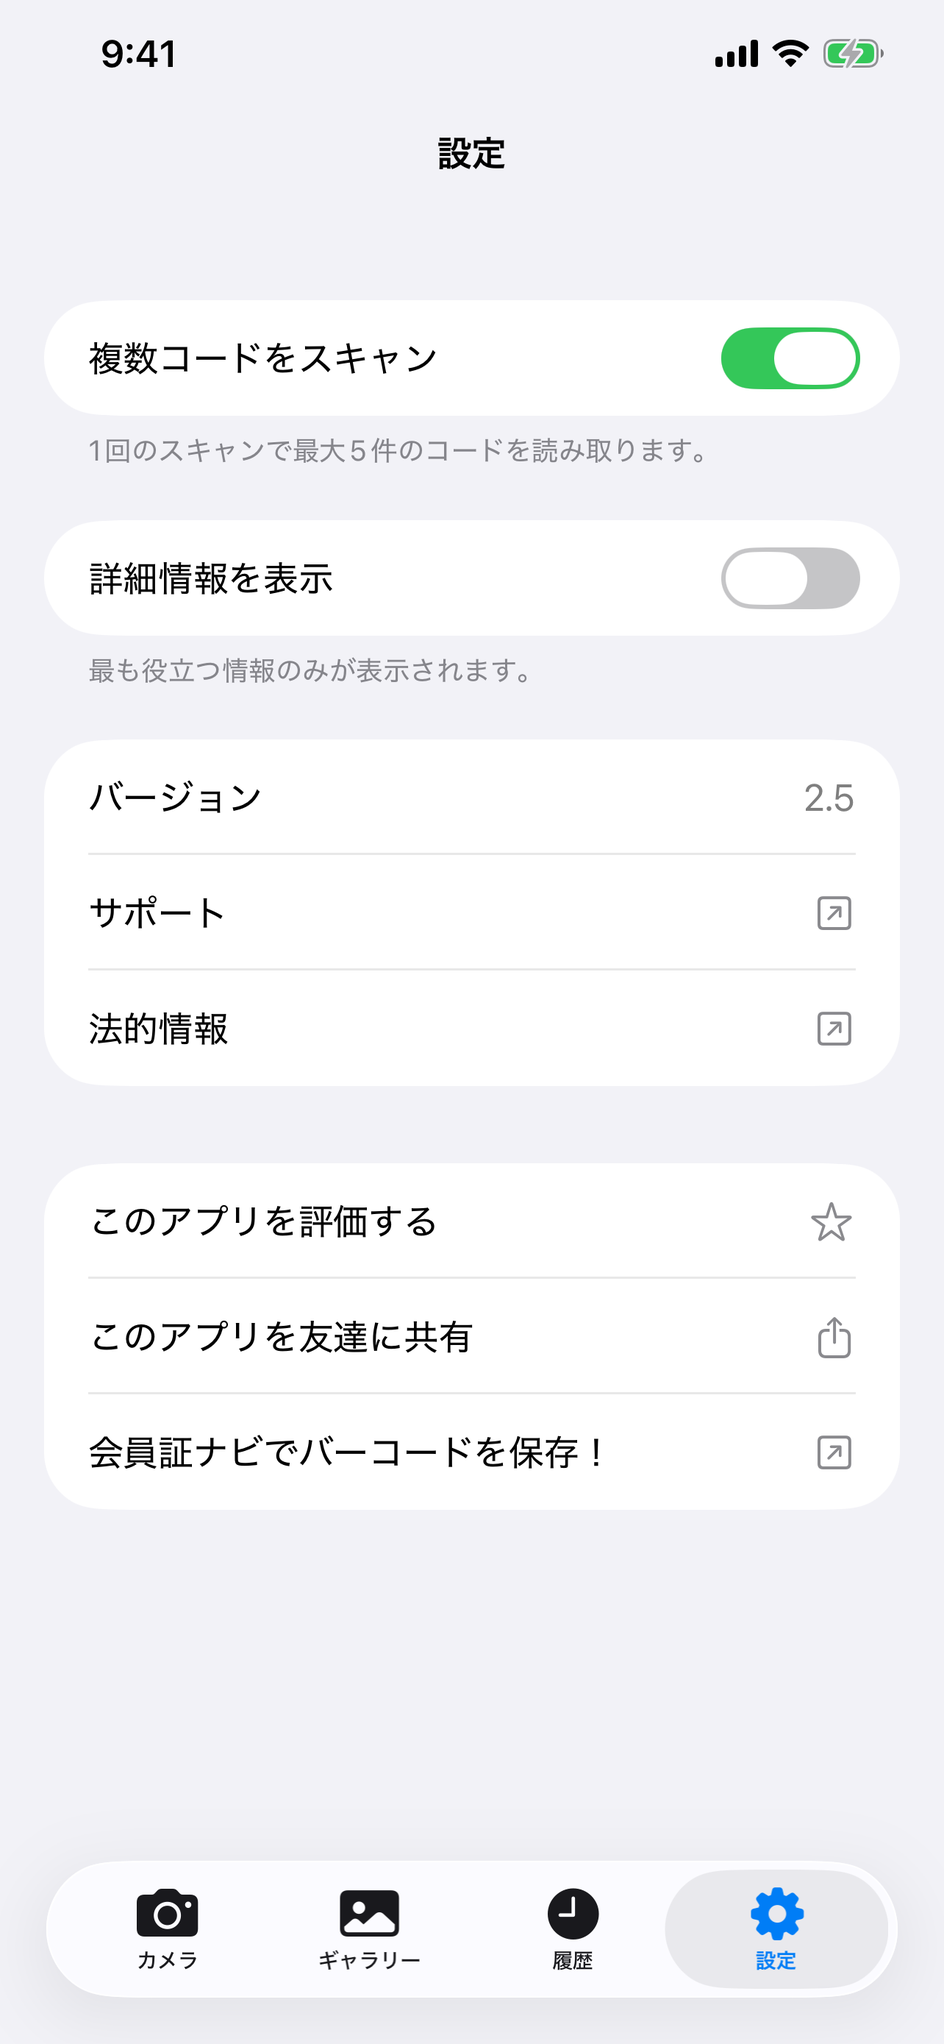
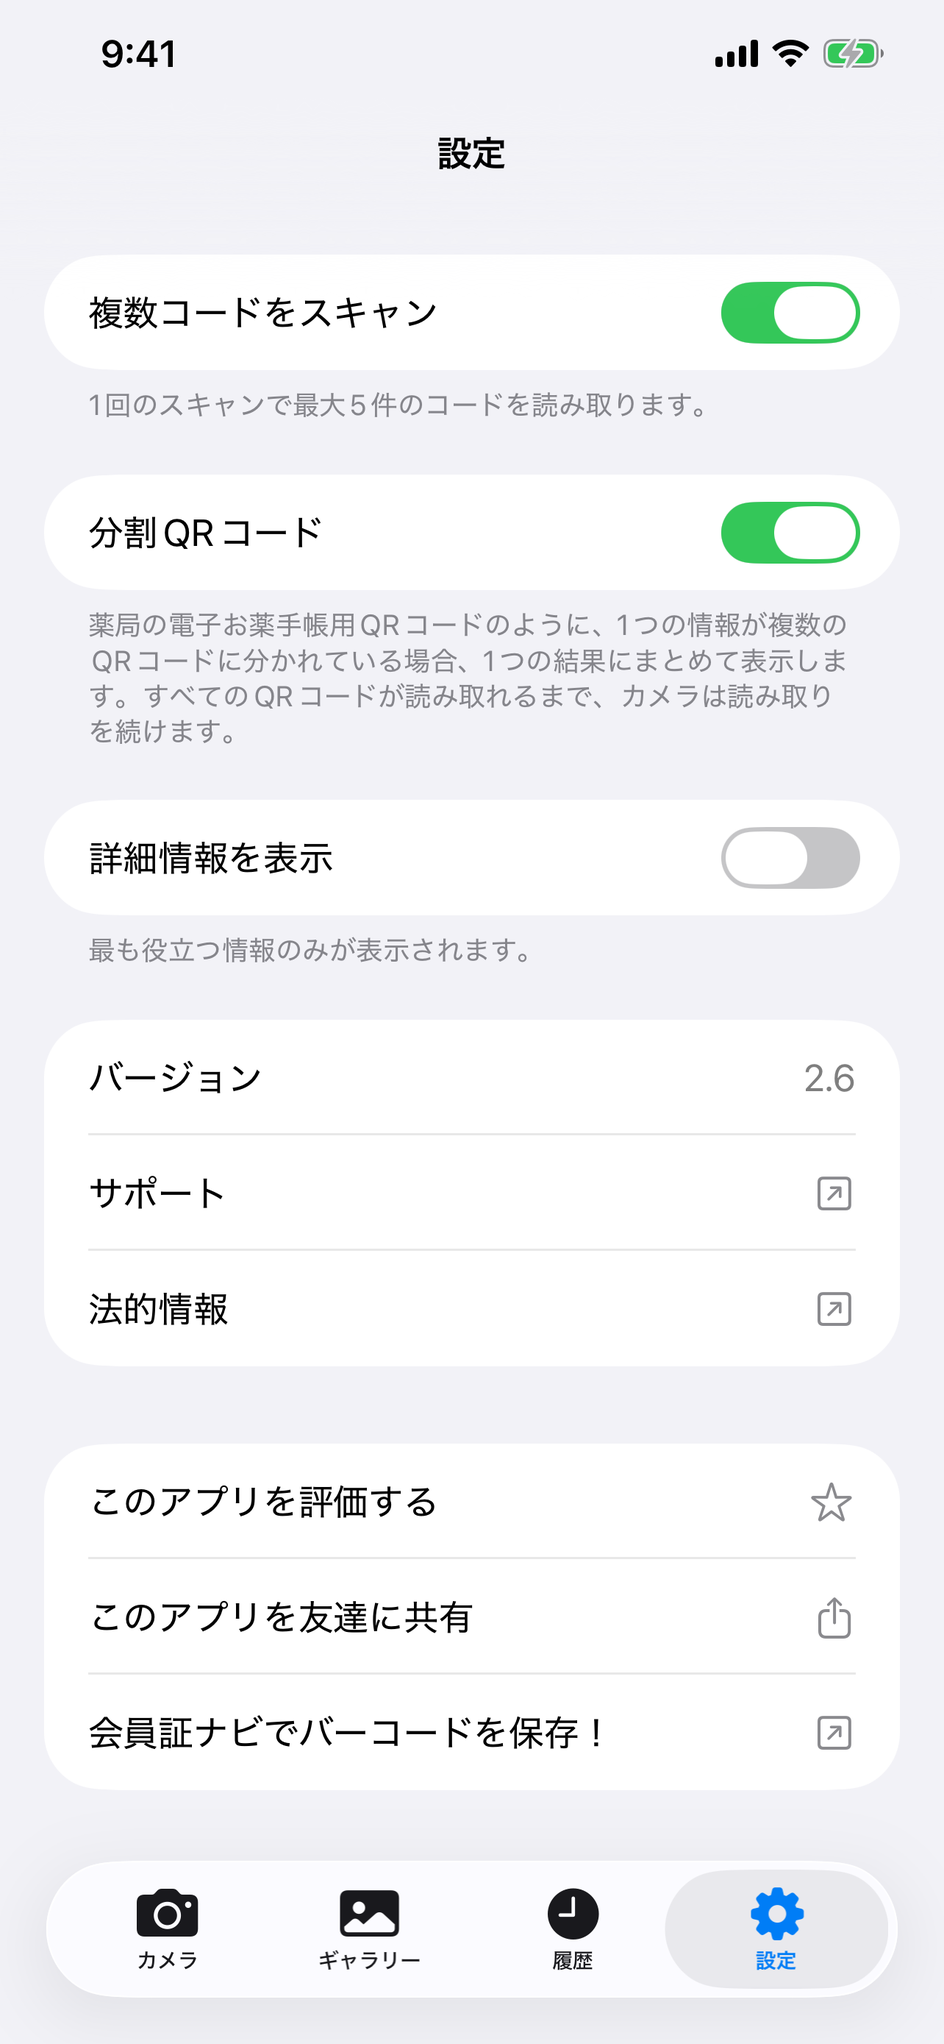
Code Reader: document Multi-Part QR Codes and refresh the Settings screenshots

diff --git a/docs/codereader/ar/index.html b/docs/codereader/ar/index.html
@@ -143,6 +143,8 @@
 
 <p><b>مسح عدة رموز</b><br>افتراضيًا، يتوقف قارئ الرموز بمجرد أن يجد <b>رمزًا واحدًا</b>. فعّل <b>مسح عدة رموز</b> لاكتشاف ما يصل إلى <b>5 رموز في وقت واحد</b>، وهو مفيد لبطاقات العمل أو صفحات المنتجات أو أي صورة تحتوي على عدة رموز جنبًا إلى جنب. تواصل الكاميرا المسح للحظة قصيرة بعد أول اكتشاف لجمع كل الرموز المرئية قبل عرض النتائج.</p>
 
+<p><b>رموز QR متعددة الأجزاء</b><br>تقسّم بعض المطبوعات رسالة واحدة على عدة رموز QR مطبوعة جنبًا إلى جنب، وإيصالات الصيدليات مثال شائع على ذلك. فعّل <b>رموز QR متعددة الأجزاء</b> (متاح بعد تفعيل <b>مسح عدة رموز</b>) ليجمع قارئ الرموز الأجزاء بالترتيب الصحيح في نتيجة واحدة. أثناء المسح، تخبرك الكاميرا بالأجزاء التي لا تزال مفقودة وتنتظرها. إذا فاتك جزء، اضغط <b>إعادة المسح</b> وامسح ذلك الجزء فقط، إذ يتذكر التطبيق الأجزاء التي عُثر عليها لمدة 30 دقيقة. هذا الإعداد متوقف افتراضيًا، فيظهر كل جزء كرمز مستقل.</p>
+
 <p><b>إظهار التفاصيل المتقدمة</b><br>فعّل <b>إظهار التفاصيل المتقدمة</b> لعرض البيانات الوصفية التقنية بجانب كل نتيجة مسح، مثل إصدار QR، ومستوى تصحيح الأخطاء، ونمط القناع، أو بنية الباركود (أحرف البدء/الإيقاف، رقم التحقق). تظهر هذه المعلومات في صفحة نتيجة المسح وفي صفوف تبويب السجل.</p>
 <div class="tip">💡 هذه طريقة رائعة لمعرفة المزيد حول كيفية عمل رموز QR والباركود فعليًا. إن كنت فضوليًا بشأن التقنية الكامنة وراء ما تمسحه، جرّبها!</div>
 

diff --git a/docs/codereader/fr/index.html b/docs/codereader/fr/index.html
@@ -149,6 +149,8 @@ L'app fonctionne hors ligne, ne stocke rien dans le cloud et n'affiche jamais de
 
 <p><b>Scanner plusieurs codes</b><br>Par défaut, Lecteur de Codes s'arrête dès qu'il trouve <b>un code</b>. Activez <b>Scanner plusieurs codes</b> pour détecter jusqu'à <b>5 codes à la fois</b>, utile pour les cartes de visite, les fiches produits ou toute image contenant plusieurs codes côte à côte. L'appareil photo continue de scanner brièvement après la première détection afin de rassembler tous les codes visibles avant d'afficher les résultats.</p>
 
+<p><b>QR codes en plusieurs parties</b><br>Certains imprimés répartissent un même message sur plusieurs QR codes placés côte à côte ; les tickets de pharmacie en sont un exemple courant. Activez <b>QR codes en plusieurs parties</b> (disponible une fois <b>Scanner plusieurs codes</b> activé) et Lecteur de Codes réunit les parties, dans le bon ordre, en un seul résultat. Pendant le scan, l’appareil photo indique les parties encore manquantes et les attend. Si une partie vous échappe, touchez <b>Scanner à nouveau</b> et scannez uniquement cette partie : les parties déjà trouvées sont mémorisées pendant 30 minutes. Cette option est désactivée par défaut ; chaque partie s’affiche alors comme un code distinct.</p>
+
 <p><b>Afficher les détails avancés</b><br>Activez <b>Afficher les détails avancés</b> pour révéler les métadonnées techniques à côté de chaque résultat de scan : version QR, niveau de correction d'erreur, motif de masque ou structure du code-barres (caractères de début/fin, chiffre de contrôle). Ces informations apparaissent sur la page de résultat et dans les lignes de l'onglet Historique.</p>
 <div class="tip">💡 C'est une excellente façon d'en apprendre davantage sur le fonctionnement réel des QR codes et des codes-barres. Si la technologie derrière ce que vous scannez vous intrigue, essayez-la !</div>
 

diff --git a/docs/codereader/es/index.html b/docs/codereader/es/index.html
@@ -116,6 +116,8 @@ La app funciona sin conexión, no almacena nada en la nube y nunca muestra anunc
 
 <p><b>Escanear varios códigos</b><br>De forma predeterminada, Escáner de Códigos se detiene en cuanto encuentra <b>un código</b>. Activa <b>Escanear varios códigos</b> para detectar hasta <b>5 códigos a la vez</b>, útil para tarjetas de visita, fichas de producto o cualquier imagen que contenga varios códigos uno al lado del otro. La cámara sigue escaneando un breve momento tras la primera detección para recopilar todos los códigos visibles antes de mostrar los resultados.</p>
 
+<p><b>Códigos QR de varias partes</b><br>Algunos impresos reparten un mismo mensaje en varios códigos QR colocados uno junto a otro; los tickets de farmacia son un ejemplo habitual. Activa <b>Códigos QR de varias partes</b> (disponible cuando <b>Escanear varios códigos</b> está activado) y Escáner de Códigos unirá las partes, en el orden correcto, en un solo resultado. Mientras escaneas, la cámara te indica qué partes faltan y las espera. Si se te escapa una parte, toca <b>Volver a escanear</b> y escanea solo esa parte: las partes ya encontradas se recuerdan durante 30 minutos. Esta opción está desactivada de forma predeterminada, y cada parte se muestra como un código independiente.</p>
+
 <p><b>Mostrar detalles avanzados</b><br>Activa <b>Mostrar detalles avanzados</b> para ver metadatos técnicos junto a cada resultado de escaneo: versión QR, nivel de corrección de errores, patrón de máscara o estructura del código de barras (caracteres de inicio/parada, dígito de comprobación). Esta información se muestra en la página de resultado y en las filas de la pestaña Historial.</p>
 <div class="tip">💡 Es una excelente manera de aprender más sobre cómo funcionan realmente los QR codes y los códigos de barras. Si tienes curiosidad por la tecnología detrás de lo que escaneas, ¡pruébalo!</div>
 

diff --git a/docs/codereader/ja/index.html b/docs/codereader/ja/index.html
@@ -140,6 +140,8 @@
 
 <p><b>複数コードをスキャン</b><br>初期設定では、万能スキャナーは<b>1つのコード</b>を見つけると停止します。<b>複数コードをスキャン</b>をオンにすると、名刺、商品シート、複数のコードが並んだ画像などで、最大<b>5個のコードを同時に</b>検出できます。カメラは最初の検出後も短いあいだスキャンを続け、表示中のコードを集めてから結果を表示します。</p>
 
+<p><b>分割QRコード</b><br>薬局でもらう電子お薬手帳用のQRコードのように、1つの情報が並んだ複数のQRコードに分かれて印刷されていることがあります。<b>分割QRコード</b>をオンにすると（<b>複数コードをスキャン</b>がオンのときに使えます）、万能スキャナーが各パートを正しい順番で1つの結果にまとめます。スキャン中は、まだ読み取れていないパートをカメラ画面に表示して待ちます。読み取れなかったパートがあれば<b>もう一度スキャン</b>をタップし、そのパートだけを読み取ってください。読み取り済みのパートは30分間保持されます。初期設定ではオフで、各パートは別々のコードとして表示されます。</p>
+
 <p><b>高度な詳細を表示</b><br><b>高度な詳細を表示</b>をオンにすると、各スキャン結果の横にQRコードのバージョン、誤り訂正レベル、マスクパターン、バーコードの構造（開始/停止文字、チェックデジット）などの技術情報が表示されます。この情報は結果ページと履歴タブの行に表示されます。</p>
 <div class="tip">💡 コードのバージョンや構造など、技術的な情報を確認したいときに使えます。</div>
 

diff --git a/docs/codereader/pt/index.html b/docs/codereader/pt/index.html
@@ -116,6 +116,8 @@ O app funciona offline, não armazena nada na nuvem e nunca exibe anúncios.</p>
 
 <p><b>Ler vários códigos</b><br>Por padrão, Leitor de Códigos para assim que encontra <b>um código</b>. Ative <b>Ler vários códigos</b> para detectar até <b>5 códigos ao mesmo tempo</b>, útil para cartões de visita, fichas de produto ou qualquer imagem com vários códigos lado a lado. A câmera continua lendo por um breve momento após a primeira detecção para coletar todos os códigos visíveis antes de mostrar os resultados.</p>
 
+<p><b>Códigos QR em várias partes</b><br>Alguns impressos dividem uma mesma mensagem em vários códigos QR impressos lado a lado; recibos de farmácia são um exemplo comum. Ative <b>Códigos QR em várias partes</b> (disponível quando <b>Ler vários códigos</b> está ativado) e o Leitor de Códigos une as partes, na ordem certa, em um único resultado. Durante a leitura, a câmera mostra quais partes ainda faltam e espera por elas. Se uma parte escapar, toque em <b>Escanear de novo</b> e leia só essa parte: as partes já encontradas ficam guardadas por 30 minutos. Esta opção vem desativada, e cada parte aparece como um código separado.</p>
+
 <p><b>Mostrar detalhes avançados</b><br>Ative <b>Mostrar detalhes avançados</b> para ver metadados técnicos junto de cada resultado de leitura: versão do QR, nível de correção de erro, padrão de máscara ou estrutura do código de barras (caracteres de início/fim, dígito verificador). Essas informações aparecem na página de resultado e nas linhas da aba Histórico.</p>
 <div class="tip">💡 É uma ótima forma de aprender mais sobre como QR codes e códigos de barras realmente funcionam. Se você tem curiosidade sobre a tecnologia por trás do que lê, experimente!</div>
 

diff --git a/docs/codereader/de/index.html b/docs/codereader/de/index.html
@@ -141,6 +141,8 @@ Die App funktioniert vollständig offline, speichert nichts in der Cloud und zei
 
 <p><b>Mehrere Codes scannen</b><br>Standardmäßig hält Codeleser an, sobald es <b>einen Code</b> findet. Aktiviere <b>Mehrere Codes scannen</b>, um bis zu <b>5 Codes gleichzeitig</b> zu erkennen, nützlich für Visitenkarten, Produktblätter oder Bilder mit mehreren nebeneinanderliegenden Codes. Die Kamera scannt nach der ersten Erkennung noch kurz weiter, um alle sichtbaren Codes zu erfassen, bevor die Ergebnisse angezeigt werden.</p>
 
+<p><b>Mehrteilige QR-Codes</b><br>Manche Ausdrucke verteilen eine Nachricht auf mehrere QR-Codes nebeneinander, Apothekenbelege sind ein typisches Beispiel. Aktiviere <b>Mehrteilige QR-Codes</b> (verfügbar, sobald <b>Mehrere Codes scannen</b> an ist), und Codeleser fügt die Teile in der richtigen Reihenfolge zu einem Ergebnis zusammen. Beim Scannen zeigt die Kamera an, welche Teile noch fehlen, und wartet auf sie. Fehlt dir ein Teil, tippe auf <b>Erneut scannen</b> und scanne nur diesen Teil: Die bereits gefundenen Teile werden 30 Minuten lang gemerkt. Die Einstellung ist standardmäßig aus; dann wird jeder Teil als eigener Code angezeigt.</p>
+
 <p><b>Erweiterte Details anzeigen</b><br>Aktiviere <b>Erweiterte Details anzeigen</b>, um technische Metadaten neben jedem Scan-Ergebnis einzublenden: QR-Version, Fehlerkorrekturlevel, Maskenmuster oder Barcode-Struktur (Start-/Stoppzeichen, Prüfziffer). Diese Informationen werden auf der Ergebnisseite und in den Zeilen des Verlauf-Tabs angezeigt.</p>
 <div class="tip">💡 Das ist eine tolle Möglichkeit, mehr darüber zu erfahren, wie QR-Codes und Barcodes tatsächlich funktionieren. Falls du neugierig auf die Technologie hinter dem bist, was du scannst, probiere es aus!</div>
 

diff --git a/docs/codereader/ko/index.html b/docs/codereader/ko/index.html
@@ -141,6 +141,8 @@
 
 <p><b>여러 코드 스캔</b><br>기본적으로 코드 리더는 <b>하나의 코드</b>를 찾으면 멈춥니다. <b>여러 코드 스캔</b>을 켜면 명함, 제품 시트 또는 여러 코드가 나란히 있는 이미지에서 최대 <b>5개의 코드를 동시에</b> 감지할 수 있습니다. 카메라는 첫 감지 후 잠시 더 스캔하여 보이는 코드를 모두 모은 뒤 결과를 표시합니다.</p>
 
+<p><b>분할 QR 코드</b><br>약국 영수증처럼 하나의 정보를 나란히 인쇄된 여러 QR 코드에 나누어 담는 경우가 있습니다. <b>분할 QR 코드</b>를 켜면(<b>여러 코드 스캔</b>이 켜져 있을 때 사용 가능) 코드 리더가 각 부분을 올바른 순서로 하나의 결과로 합칩니다. 스캔하는 동안 카메라가 아직 없는 부분을 알려 주고 기다립니다. 놓친 부분이 있으면 <b>다시 스캔</b>을 탭하고 그 부분만 스캔하세요. 이미 찾은 부분은 30분 동안 기억됩니다. 이 설정은 기본적으로 꺼져 있으며, 이때는 각 부분이 별도의 코드로 표시됩니다.</p>
+
 <p><b>고급 세부 정보 표시</b><br><b>고급 세부 정보 표시</b>를 켜면 각 스캔 결과 옆에 QR 버전, 오류 수정 수준, 마스크 패턴 또는 바코드 구조(시작/종료 문자, 검사 숫자) 같은 기술 메타데이터가 표시됩니다. 이 정보는 결과 페이지와 기록 탭의 행에 표시됩니다.</p>
 <div class="tip">💡 QR 코드와 바코드가 실제로 어떻게 작동하는지 더 알아볼 수 있는 좋은 방법입니다. 스캔하는 것 뒤의 기술이 궁금하다면 사용해 보세요!</div>
 

diff --git a/docs/codereader/tr/index.html b/docs/codereader/tr/index.html
@@ -140,6 +140,8 @@
 
 <p><b>Birden Fazla Kodu Tara</b><br>Varsayılan olarak Kod Okuyucu, <b>bir kod</b> bulduğunda durur. <b>Birden Fazla Kodu Tara</b> seçeneğini açarak aynı anda en fazla <b>5 kod</b> tespit edebilirsiniz; kartvizitler, ürün sayfaları veya yan yana birden fazla kod içeren görüntüler için kullanışlıdır. Kamera, tüm görünür kodları toplamak için ilk algılamadan sonra kısa bir süre daha taramaya devam eder ve sonra sonuçları gösterir.</p>
 
+<p><b>Çok Parçalı QR Kodlar</b><br>Bazı çıktılar tek bir mesajı yan yana basılmış birden fazla QR koda böler; eczane fişleri yaygın bir örnektir. <b>Çok Parçalı QR Kodlar</b> seçeneğini açın (<b>Birden Fazla Kodu Tara</b> açıkken kullanılabilir), Kod Okuyucu parçaları doğru sırayla tek bir sonuçta birleştirsin. Tarama sırasında kamera hangi parçaların eksik olduğunu gösterir ve onları bekler. Bir parçayı kaçırırsanız <b>Yeniden Tara</b>'ya dokunun ve yalnızca o parçayı tarayın: bulunan parçalar 30 dakika boyunca hatırlanır. Bu ayar varsayılan olarak kapalıdır; bu durumda her parça ayrı bir kod olarak gösterilir.</p>
+
 <p><b>Gelişmiş Ayrıntıları Göster</b><br><b>Gelişmiş Ayrıntıları Göster</b> seçeneğini açarak her tarama sonucunun yanında teknik meta verileri görebilirsiniz: QR sürümü, hata düzeltme düzeyi, maske deseni veya barkod yapısı (başlangıç/bitiş karakterleri, kontrol rakamı). Bu bilgiler Tarama Sonucu sayfasında ve Geçmiş sekmesi satırlarında gösterilir.</p>
 <div class="tip">💡 Kodun sürümü ve yapısı gibi teknik bilgileri merak ediyorsanız bu seçeneği açabilirsiniz.</div>
 

diff --git a/docs/codereader/en/index.html b/docs/codereader/en/index.html
@@ -150,6 +150,9 @@ No ads, no tracking. Remove trackers, scan multiple codes, and share images from
 <p><b>Scan Multiple Codes</b><br>
 By default, Barcode QR Reader stops as soon as it finds <b>one code</b>. Turn on <b>Scan Multiple Codes</b> to detect up to <b>5 codes at once</b>, useful for business cards, product sheets, or any image containing several codes side by side. The camera keeps scanning for a brief moment after the first detection to gather all visible codes before showing results.</p>
 
+<p><b>Multi-Part QR Codes</b><br>
+Some printouts split one message across several QR codes printed side by side; pharmacy receipts are a common example. Turn on <b>Multi-Part QR Codes</b> (available once <b>Scan Multiple Codes</b> is on) and Barcode QR Reader joins the parts, in the right order, into a single result. While scanning, the camera tells you which parts are still missing and waits for them. If you miss a part, tap <b>Scan Again</b> and scan just that part: the parts already found are remembered for 30 minutes. The setting is off by default, in which case each part shows as its own code.</p>
+
 <p><b>Show Advanced Details</b><br>
 Turn on <b>Show Advanced Details</b> to reveal technical metadata alongside each scan result: things like QR version, error correction level, mask pattern, or barcode structure (start/stop characters, check digit). This is shown on the Scan Result page and in the History tab rows.</p>
 <div class="tip">💡 This is a great way to learn more about how QR codes and barcodes actually work. If you're curious about the technology behind what you scan, give it a try!</div>

diff --git a/docs/codereader/zh-hant/index.html b/docs/codereader/zh-hant/index.html
@@ -141,6 +141,8 @@
 
 <p><b>掃描多個碼</b><br>預設情況下，掃碼器找到<b>一個碼</b>後就會停止。開啟<b>掃描多個碼</b>後，可一次偵測最多 <b>5 個碼</b>，適用於名片、產品單頁或包含多個並排碼的圖片。相機在首次偵測後會繼續短暫掃描，以收集所有可見的碼再顯示結果。</p>
 
+<p><b>分段QR碼</b><br>有些列印文件會把一則資訊拆分到並排印刷的多個QR碼中，藥局收據就是常見的例子。開啟<b>分段QR碼</b>後（需先開啟<b>掃描多個碼</b>），掃碼器會依正確順序把各段合併為一個結果。掃描時，相機會提示還缺少哪些分段並等待它們。如果漏掃了某段，點一下<b>重新掃描</b>，只掃描那一段即可：已找到的分段會保留 30 分鐘。此設定預設為關閉，關閉時每一段都會以獨立的條碼顯示。</p>
+
 <p><b>顯示進階詳細資訊</b><br>開啟<b>顯示進階詳細資訊</b>後，每個掃描結果旁會顯示技術中繼資料：QR 版本、錯誤校正等級、遮罩圖案或條碼結構（起始/終止字元、校驗位）。這些資訊會顯示在結果頁面和歷史記錄標籤頁的各列中。</p>
 <div class="tip">💡 這是了解 QR 碼和條碼實際運作方式的好方法。如果你對所掃描內容背後的技術感興趣，可以試試看！</div>
 

diff --git a/docs/codereader/zh-hans/index.html b/docs/codereader/zh-hans/index.html
@@ -141,6 +141,8 @@
 
 <p><b>扫描多个码</b><br>默认情况下，全能扫码器找到<b>一个码</b>后就会停止。开启<b>扫描多个码</b>后，可一次检测最多 <b>5 个码</b>，适用于名片、产品单页或包含多个并排码的图片。摄像头在首次检测后会继续短暂扫描，以收集所有可见的码再显示结果。</p>
 
+<p><b>分段QR码</b><br>有些打印件会把一条信息拆分到并排印刷的多个QR码中，药店收据就是常见的例子。开启<b>分段QR码</b>后（需先开启<b>扫描多个码</b>），全能扫码器会按正确顺序把各段合并为一个结果。扫描时，相机会提示还缺少哪些分段并等待它们。如果漏扫了某段，点按<b>重新扫描</b>，只扫描那一段即可：已找到的分段会保留 30 分钟。此设置默认关闭，关闭时每一段都会作为单独的码显示。</p>
+
 <p><b>显示高级详情</b><br>开启<b>显示高级详情</b>后，每个扫描结果旁会显示技术元数据：QR 版本、纠错级别、掩码图案或条形码结构（起始/终止字符、校验位）。这些信息会显示在结果页面和历史记录标签页的各行中。</p>
 <div class="tip">💡 这是了解 QR 码和条形码实际工作方式的好方法。如果你对所扫描内容背后的技术感兴趣，可以试试看！</div>
 
